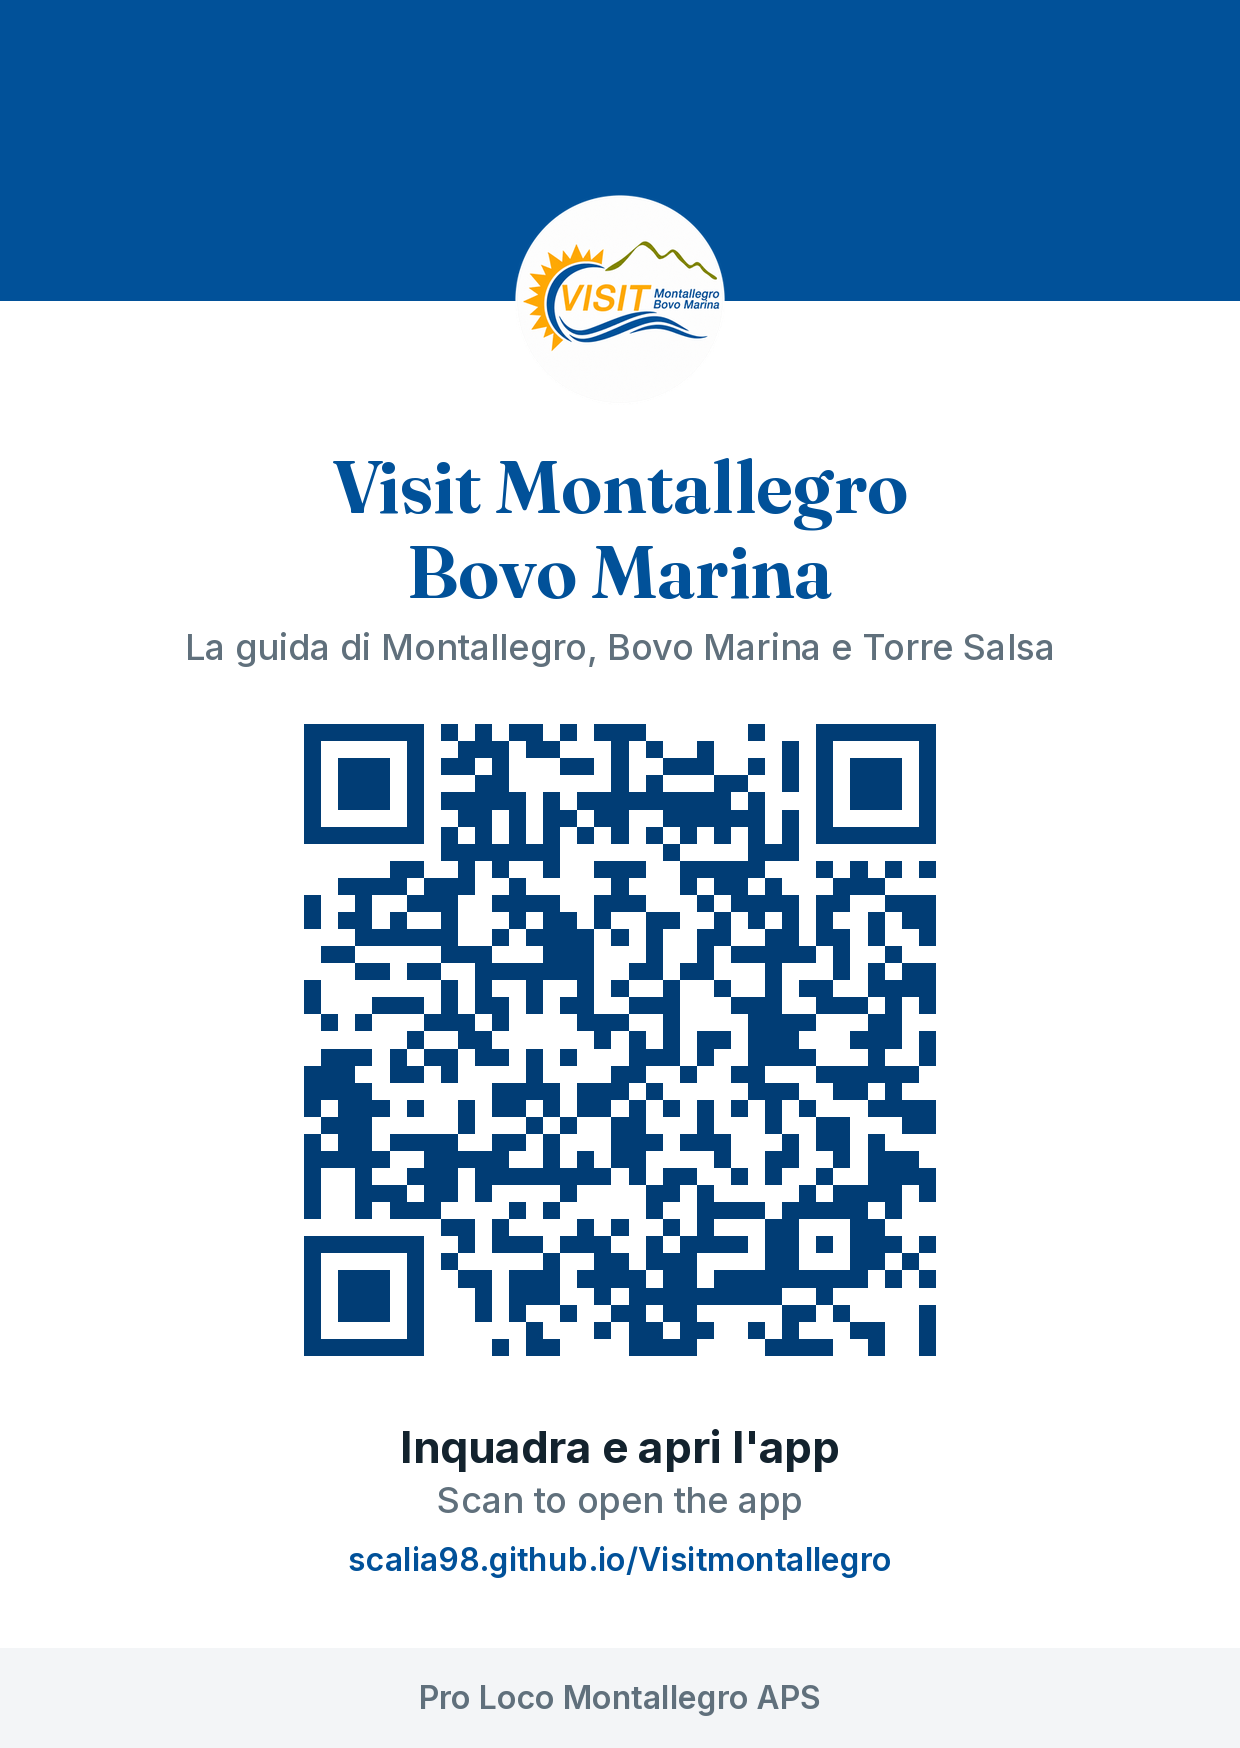
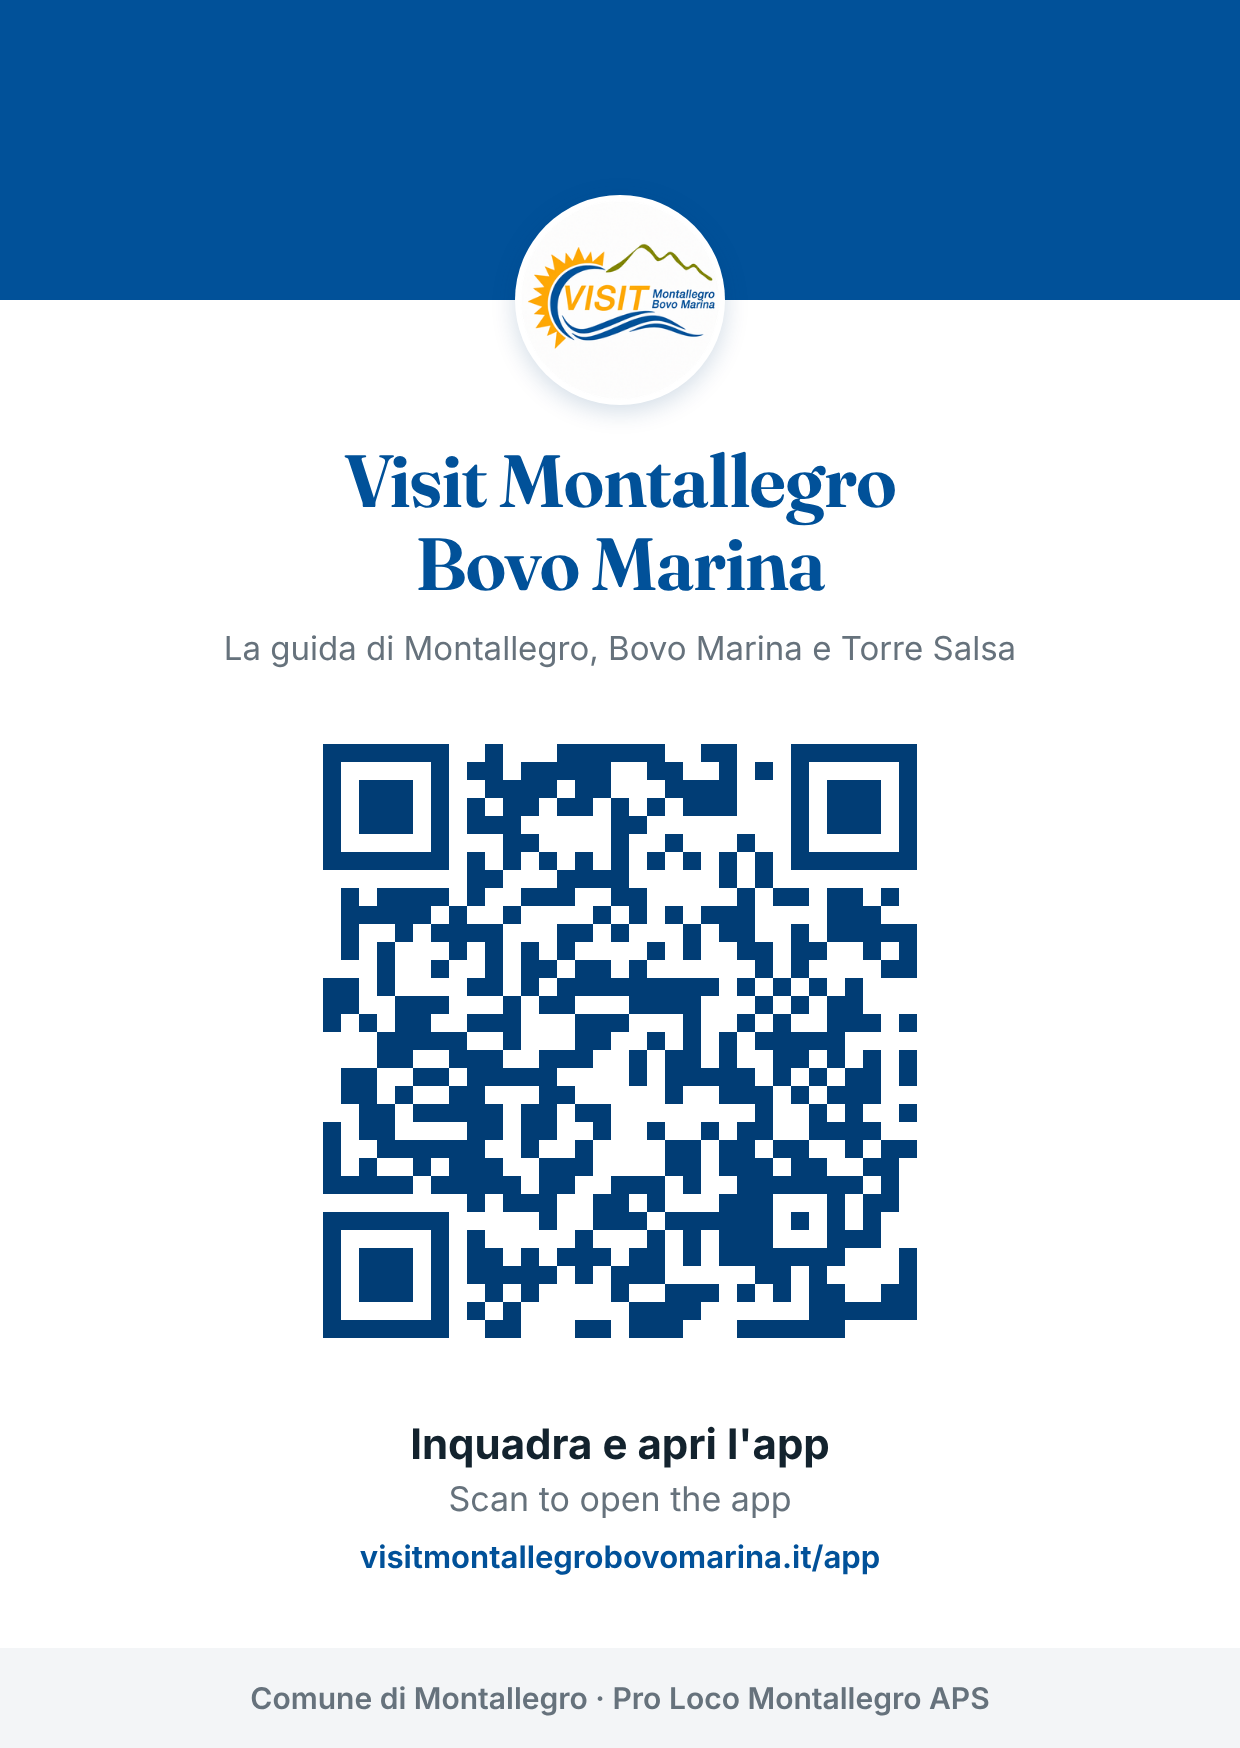
Link corto visitmontallegrobovomarina.it/app: QR nuovo e «Condividi l'app»
- Su WordPress il plugin Redirection rimanda /app alla web app (302).
- QR da stampare rifatto con il link corto; in fondo Comune e Pro Loco.
- Il tasto «Condividi l'app» manda il link corto; notifiche e link alle
  pagine restano sull'indirizzo GitHub, che apre l'app installata.
- LEGGIMI: il link corto e l'avviso di cambiare dominio prima delle
  notifiche.

Claude-Session: https://claude.ai/code/session_01X37gALbBpqWwtJJTbgkhhA

Changed region(s): [[0.1532, 0.2471, 0.8274, 0.8959], [0.2145, 0.9577, 0.7968, 0.9886], [0.429, 0.1236, 0.5823, 0.2162]]

diff --git a/www/js/config.js b/www/js/config.js
@@ -19,6 +19,10 @@ window.MONTALLEGRO_CONFIG = {
   // Versione web (GitHub Pages): si apre da qualsiasi telefono; finché mancano gli store, "Condividi l'app" manda questo link
   WEB_URL: 'https://scalia98.github.io/Visitmontallegro/',
 
+  // Link corto da far girare (QR, bio, tasto «Condividi l'app»): su WordPress il plugin Redirection lo rimanda a WEB_URL.
+  // Le notifiche e i link alle singole pagine usano invece WEB_URL, perché aprono l'app installata solo con il suo indirizzo.
+  LINK_APP: 'https://visitmontallegrobovomarina.it/app',
+
   // Dopo la pubblicazione: link agli store, usati dal tasto "Condividi l'app"
   APP_STORE_URL: '',
   PLAY_STORE_URL: '',

diff --git a/www/js/app.js b/www/js/app.js
@@ -1812,7 +1812,7 @@
       chiudiInstalla();
       aggiornaInstalla();
     } else if (az === 'condividi-app') {
-      condividi(NOME_APP, t('scoprila'), [CFG.APP_STORE_URL, CFG.PLAY_STORE_URL].filter(Boolean).join('\n') || CFG.WEB_URL);
+      condividi(NOME_APP, t('scoprila'), [CFG.APP_STORE_URL, CFG.PLAY_STORE_URL].filter(Boolean).join('\n') || CFG.LINK_APP || CFG.WEB_URL);
     } else if (az === 'indietro') {
       indietro();
     } else if (az === 'vedi-mappa') {

diff --git a/www/sw.js b/www/sw.js
@@ -1,5 +1,5 @@
 /* Visit Montallegro Bovo Marina — funzionamento offline per la versione web (nell'app installata i file sono già sul telefono) */
-const CACHE = 'visit-montallegro-v20';
+const CACHE = 'visit-montallegro-v21';
 const FILES = [
   './', 'index.html', 'css/app.css', 'js/config.js', 'js/app.js', 'data/contenuti.json',
   'vendor/leaflet/leaflet.js', 'vendor/leaflet/leaflet.css', 'vendor/capacitor/capacitor.js',

diff --git a/LEGGIMI.md b/LEGGIMI.md
@@ -90,10 +90,10 @@ L'app, a ogni apertura, scarica `www/data/contenuti.json` dal repository GitHub 
 
 ## Versione web (online subito, gratis)
 
-L'app è online anche come web app su **https://scalia98.github.io/Visitmontallegro/** (GitHub Pages). Il QR code da stampare è `risorse/qr-web-app.png`.
+L'app è online anche come web app su **https://scalia98.github.io/Visitmontallegro/** (GitHub Pages). Il link da far girare è **visitmontallegrobovomarina.it/app**: su WordPress il plugin «Redirection» (di John Godley) lo rimanda alla web app con un reindirizzamento 302. Lo usano il QR da stampare (`risorse/qr-web-app.png`, solo il codice in `risorse/qr-web-app-solo.png`) e il tasto «Condividi l'app». Le notifiche e i link alle singole pagine usano invece l'indirizzo GitHub, perché solo con quello si apre l'app installata.
 - **Attivarla, una volta sola**: su GitHub apri il repository → Settings → Pages → Build and deployment → Source «Deploy from a branch» → Branch `gh-pages`, cartella `/ (root)` → Save. Dopo un paio di minuti l'indirizzo funziona.
 - **Aggiornamenti**: i contenuti arrivano da soli da `contenuti.json`; quando cambia il codice in `www/`, il workflow «Versione web» (`.github/workflows/versione-web.yml`) ricopia la cartella sul ramo `gh-pages`.
-- **Dominio vostro (facoltativo)**: per usare `app.visitmontallegrobovomarina.it`, nel DNS del dominio aggiungi un record CNAME `app` → `scalia98.github.io` e scrivi lo stesso indirizzo in Settings → Pages → Custom domain. Il vecchio indirizzo (e il QR già stampato) rimanda da solo a quello nuovo.
+- **Dominio vostro (facoltativo)**: per usare `app.visitmontallegrobovomarina.it`, nel DNS del dominio aggiungi un record CNAME `app` → `scalia98.github.io` e scrivi lo stesso indirizzo in Settings → Pages → Custom domain. Il vecchio indirizzo rimanda da solo a quello nuovo. Va fatto prima di attivare le notifiche: le iscrizioni restano legate all'indirizzo dell'app e cambiandolo si perdono.
 - **iPhone**: Safari → Condividi → Aggiungi alla schermata Home. Funziona tutto tranne il menu a pressione prolungata, che Apple concede solo alle app dello store.
 - **Android**: Chrome → Installa app. Qui anche la versione web ha le scorciatoie.
 - In alternativa puoi caricare la cartella `www/` sul vostro hosting (per esempio SiteGround, con HTTPS).
